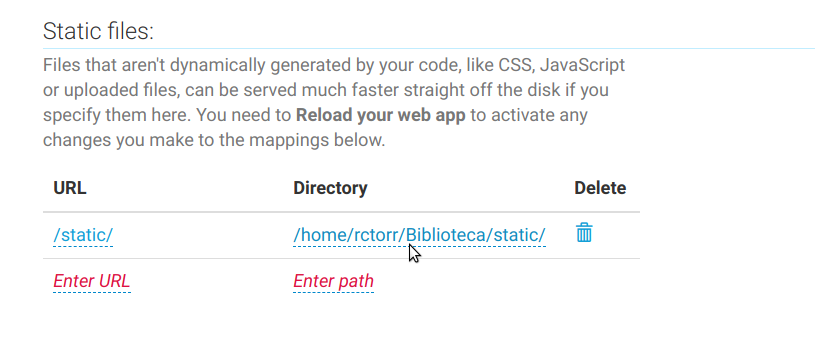
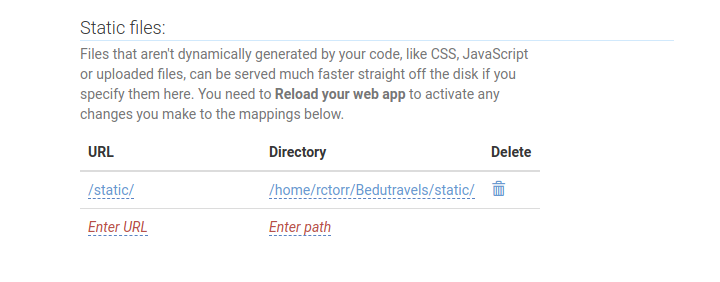
Terminando transición a Bedutravels para Ejemplo-04, Sesion-08 Student

diff --git a/Sesion-08/Ejemplo-04/Readme.md b/Sesion-08/Ejemplo-04/Readme.md
@@ -1,4 +1,4 @@
-`Fullstack con Python` > [`Backend con Python`](../../Readme.md) > [`Sesión 08`](../Readme.md) > Ejemplo-04
+[`Backend con Python`](../../Readme.md) > [`Sesión 08`](../Readme.md) > Ejemplo-04
 ## Archivos estáticos y base de datos en producción
 
 ### OBJETIVOS
@@ -6,16 +6,16 @@
 - Configurar la base de datos en producción
 
 ### REQUISITOS
-1. Actualizar repositorio __CursoPythonBedu__
-1. La carpeta de referencia es `Sesion-08/Ejemplo-04/Biblioteca/`
-1. Contar con repo __Biblioteca__ en equipo local
-1. La carpeta de trabajo debe ser `Biblioteca/`
-1. Contar con repo __Biblioteca__ en Github
-1. Contar con repo __Biblioteca__ en Pythonanywhere
+1. Actualizar repositorio __Backend-con-Python__
+1. La carpeta de referencia es `Sesion-08/Ejemplo-04/Bedutravels/`
+1. Contar con repo __Bedutravels__ en equipo local
+1. La carpeta de trabajo debe ser `Bedutravels/`
+1. Contar con repo __Bedutravels__ en Github
+1. Contar con repo __Bedutravels__ en Pythonanywhere
 1. Contar con el proyecto ya configurado en Pythonanywhere
 
 ### DESARROLLO
-1. Nuestra aplicación en producción actualmente se ve sin estilos y para corregir esto en la carpeta `Biblioteca/` en el equipo local agregar el siguiente código al archivo `Biblioteca/Biblioteca/settings-prod.py`:
+1. Nuestra aplicación en producción actualmente se ve sin estilos y para corregir esto en la carpeta `Bedutravels/` en el equipo local agregar el siguiente código al archivo `Bedutravels/Bedutravels/settings-prod.py`:
 
    ```python
    STATIC_ROOT = os.path.join(BASE_DIR, "static")
@@ -23,16 +23,16 @@
 
    __Agregar el cambio a repo local con:__
    ```console
-   Biblioteca $ git add Biblioteca/settings-prod.py
-   Biblioteca $ git commit -m "Agregando variable STATIC_ROOT a settings-prod.py"
+   Bedutravels $ git add Bedutravels/settings-prod.py
+   Bedutravels $ git commit -m "Agregando variable STATIC_ROOT a settings-prod.py"
    [master 24fa423] Agregando variable STATIC_ROOT a settings-prod.py
    1 file changed, 1 insertion(+)
-   Biblioteca $
+   Bedutravels $
    ```
 
    __Actualizando el repo en github con:__
    ```console
-   Biblioteca $ git push
+   Bedutravels $ git push
    Username for 'https://github.com': tu-usuario
    Password for 'https://rctorr@github.com':
    Counting objects: 4, done.
@@ -41,33 +41,33 @@
    Writing objects: 100% (4/4), 408 bytes | 0 bytes/s, done.
    Total 4 (delta 3), reused 0 (delta 0)
    remote: Resolving deltas: 100% (3/3), completed with 3 local objects.
-   To https://github.com/rctorr/Biblioteca.git
+   To https://github.com/rctorr/Bedutravels.git
       d3d73e1..24fa423  master -> master
 
-   Biblioteca $
+   Bedutravels $
    ```
 
    __Actualizando el repo en Pythonanywhere en un consola bash:__
    ```console
-   (Biblioteca) 20:34 ~/Biblioteca (master)$ git pull                                               remote: Enumerating objects: 7, done.
+   (Bedutravels) 20:34 ~/Bedutravels (master)$ git pull                                               remote: Enumerating objects: 7, done.
    remote: Counting objects: 100% (7/7), done.
    remote: Compressing objects: 100% (1/1), done.
    remote: Total 4 (delta 3), reused 4 (delta 3), pack-reused 0
-   Unpacking objects: 100% (4/4), done.                                              From https://github.com/rctorr/Biblioteca
+   Unpacking objects: 100% (4/4), done.                                              From https://github.com/rctorr/Bedutravels
     d3d73e1..24fa423  master     -> origin/master
    Updating d3d73e1..24fa423                                       
-   Fast-forward                                                           Biblioteca/settings-prod.py | 1 +               
+   Fast-forward                                                           Bedutravels/settings-prod.py | 1 +               
      1 file changed, 1 insertion(+)                               
-   (Biblioteca) 20:38 ~/Biblioteca (master)$
+   (Bedutravels) 20:38 ~/Bedutravels (master)$
    ```
 
-   __En Pythonanywhere se crea la carpeta `Biblioteca/static` y se actualizan los archivos estáticos:__
+   __En Pythonanywhere se crea la carpeta `Bedutravels/static` y se actualizan los archivos estáticos:__
    ```console
-   (Biblioteca) 20:51 ~/Biblioteca (master)$ mkdir static
-   (Biblioteca) 20:51 ~/Biblioteca (master)$ python manage.py collectstatic
+   (Bedutravels) 20:51 ~/Bedutravels (master)$ mkdir static
+   (Bedutravels) 20:51 ~/Bedutravels (master)$ python manage.py collectstatic
 
-   195 static files copied to '/home/rctorr/Biblioteca/static'.
-   (Biblioteca) 20:52 ~/Biblioteca (master)$
+   195 static files copied to '/home/rctorr/Bedutravels/static'.
+   (Bedutravels) 20:52 ~/Bedutravels (master)$
    ```
 
    __En Pythonanywhere en Dashboard - Web sección Static se agregar la ruta para los archivos estáticos:__
@@ -79,7 +79,7 @@
    Y finalmente actualiza la página en el navegador y el resultado debería ser similar al siguiente:
    ![Aplicación con estilos](assets/produccion-02.png)
 
-1. La base de datos a usar en producción es MySQL con los datos obtenidos anteriormente, se configuran en el archivo `Biblioteca/Biblioteca/settings-prod.py` en la sección de base de datos quedando de la siguiente forma:
+1. La base de datos a usar en producción es MySQL con los datos obtenidos anteriormente, se configuran en el archivo `Bedutravels/Bedutravels/settings-prod.py` en la sección de base de datos quedando de la siguiente forma:
 
    ```python
    # Database
@@ -88,7 +88,7 @@
    DATABASES = {
        'default': {
            'ENGINE': 'django.db.backends.mysql',
-           'NAME': 'rctorr$Biblioteca',
+           'NAME': 'rctorr$Bedutravels',
            'USER': 'rctorr',
            'PASSWORD': 'pythonsql',
            'HOST': 'rctorr.mysql.pythonanywhere-services.com',
@@ -99,12 +99,12 @@
    __Nuevamente se realizar el proceso de actualizar el repo local, el repo en github:__
 
    ```console
-   Biblioteca $ git add Biblioteca/settings-prod.py
-   Biblioteca $ git commit -m "Agregando configuración para hacer uso de MySQL como base de datos en settings-prod.py"
+   Bedutravels $ git add Bedutravels/settings-prod.py
+   Bedutravels $ git commit -m "Agregando configuración para hacer uso de MySQL como base de datos en settings-prod.py"
    [master b1026f1] Agregando configuración para hacer uso de MySQL como base de datos en settings-prod.py
     1 file changed, 5 insertions(+), 2 deletions(-)
 
-   Biblioteca $ git push
+   Bedutravels $ git push
    Username for 'https://github.com': rctorr
    Password for 'https://rctorr@github.com':
    Counting objects: 4, done.
@@ -113,32 +113,32 @@
    Writing objects: 100% (4/4), 507 bytes | 0 bytes/s, done.
    Total 4 (delta 3), reused 0 (delta 0)
    remote: Resolving deltas: 100% (3/3), completed with 3 local objects.
-   To https://github.com/rctorr/Biblioteca.git
+   To https://github.com/rctorr/Bedutravels.git
       24fa423..b1026f1  master -> master
    ```
 
    __Actualizando el repo en producción:__
    ```console
-   (Biblioteca) 21:37 ~/Biblioteca (master)$ git pull    
+   (Bedutravels) 21:37 ~/Bedutravels (master)$ git pull    
    remote: Enumerating objects: 7, done.
    remote: Counting objects: 100% (7/7), done.
    remote: Compressing objects: 100% (1/1), done.
    remote: Total 4 (delta 3), reused 4 (delta 3), pack-reused 0
    Unpacking objects: 100% (4/4), done.                   
-   From https://github.com/rctorr/Biblioteca
+   From https://github.com/rctorr/Bedutravels
       24fa423..b1026f1  master     -> origin/master
    Updating 24fa423..b1026f1
    Fast-forward
-    Biblioteca/settings-prod.py | 7 +++++--
+    Bedutravels/settings-prod.py | 7 +++++--
     1 file changed, 5 insertions(+), 2 deletions(-)
 
-   (Biblioteca) 21:37 ~/Biblioteca (master)$
+   (Bedutravels) 21:37 ~/Bedutravels (master)$
    ```
 
    Como se ha configurado la base de datos MySQL para producción por lo que se necesitará el módulo correspondiente para que Django pueda realizar la conexión:
 
    ```console
-   (Biblioteca) 21:37 ~/Biblioteca (master)$ pip install mysqlclient
+   (Bedutravels) 21:37 ~/Bedutravels (master)$ pip install mysqlclient
    Looking in links: /usr/share/pip-wheels
    Collecting mysqlclient
      Downloading https://files.pythonhosted.org/packages/f4/f1/3bb6f64ca7a429729413e6556b7ba5976df06019a5245a43d36032f1
@@ -153,12 +153,12 @@
    Installing collected packages: mysqlclient
    Successfully installed mysqlclient-1.4.2.post1
 
-   (Biblioteca) 21:37 ~/Biblioteca (master)$
+   (Bedutravels) 21:37 ~/Bedutravels (master)$
    ```
 
    Como tenemos una nueva base de datos, ésta está vacía por lo que hay que aplicar las migraciones en producción y luego crear el usuario administrador de nuestra aplicación.
    ```console
-   (Biblioteca) 21:37 ~/Biblioteca (master)$ python manage.py migrate
+   (Bedutravels) 21:37 ~/Bedutravels (master)$ python manage.py migrate
    System check identified some issues:
 
    WARNINGS:
@@ -193,16 +193,16 @@
    Applying catalogo.0006_prestamo_libros... OK
    Applying sessions.0001_initial... OK
 
-   (Biblioteca) 21:58 ~/Biblioteca (master)$ python manage.py createsuperuser
-   Nombre de usuario (leave blank to use 'rctorr'): biblioteca
-   Dirección de correo electrónico: biblioteca@gmail.com
+   (Bedutravels) 21:58 ~/Bedutravels (master)$ python manage.py createsuperuser
+   Nombre de usuario (leave blank to use 'rctorr'): bedutravels
+   Dirección de correo electrónico: bedutravels@gmail.com
    Password:
    Password (again):
    La contraseña es muy similar a  nombre de usuario.
    Bypass password validation and create user anyway? [y/N]: y
    Superuser created successfully.
 
-   (Biblioteca) 21:58 ~/Biblioteca (master)$
+   (Bedutravels) 21:58 ~/Bedutravels (master)$
    ```
 
    __En el Dashboard - Web dar click en el botón de reload__
@@ -210,14 +210,37 @@
    Actualizar el navegador y se debería obtener el siguiente resultado:
    ![Aplicación con nueva base de datos MySQL](assets/produccion-03.png)
 
-   Esto es así porque la base de datos en producción está vacía, así que es necesario agregar datos mediante el panel de adminitrador de Django o se pueden cargar los datos del archivo `Biblioteca/datos/catalogo.json` desde la __Consola Bash en el Dashboard__:
-   ```console
-   (Biblioteca) 18:51 ~/Biblioteca (master)$ pwd
-   /home/rctorr/Biblioteca
-   (Biblioteca) 18:51 ~/Biblioteca (master)$ python manage.py loaddata datos/catalogo.json
-   Installed 16 object(s) from 1 fixture(s)
+   Esto es así porque la base de datos en producción está vacía, así que es necesario agregar datos mediante el panel de adminitrador de Django o se pueden cargar los datos del archivo `datos/tours.json` desde la __Consola Bash en el Dashboard__.
 
-   (Biblioteca) 18:51 ~/Biblioteca (master)$
+   Para ellos, lo primero es agregar el archivos tours.json al repo local __Bedutravles__:
+
+   ```console
+   (Bedutravels) Bedutravels (master)$ cp -a Backend-con-Python/Sesion-08/datos .
+   (Bedutravels) Bedutravels (master)$ git add .
+   (Bedutravels) Bedutravels (master)$ git commit -m "Agregando datos"
+   (Bedutravels) Bedutravels (master)$ git push
+   Username for 'https://github.com': rctorr
+   Password for 'https://rctorr@github.com':
+   Contando objetos: 4, listo.
+   Delta compression using up to 4 threads.
+   Comprimiendo objetos: 100% (3/3), listo.
+   Escribiendo objetos: 100% (4/4), 1.13 KiB | 1.13 MiB/s, listo.
+   Total 4 (delta 1), reused 0 (delta 0)
+   remote: Resolving deltas: 100% (1/1), completed with 1 local object.
+   To https://github.com/rctorr/Bedutravels.git
+      cef36d7..fc80726  master -> master
+   ```
+
+   En el repo de Pythonanywhere, actualizar el repo e importar los datos:
+
+   ```console
+   (Bedutravels) 18:51 ~/Bedutravels (master)$ git pull
+   (Bedutravels) 18:51 ~/Bedutravels (master)$ pwd
+   /home/rctorr/Bedutravels
+   (Bedutravels) 18:51 ~/Bedutravels (master)$ python manage.py loaddata datos/tours.json
+   Installed 20 object(s) from 1 fixture(s)
+
+   (Bedutravels) 18:51 ~/Bedutravels (master)$
    ```
 
    Tras lo cual recargar el navegador para obtener algo similar a lo siguiente:
